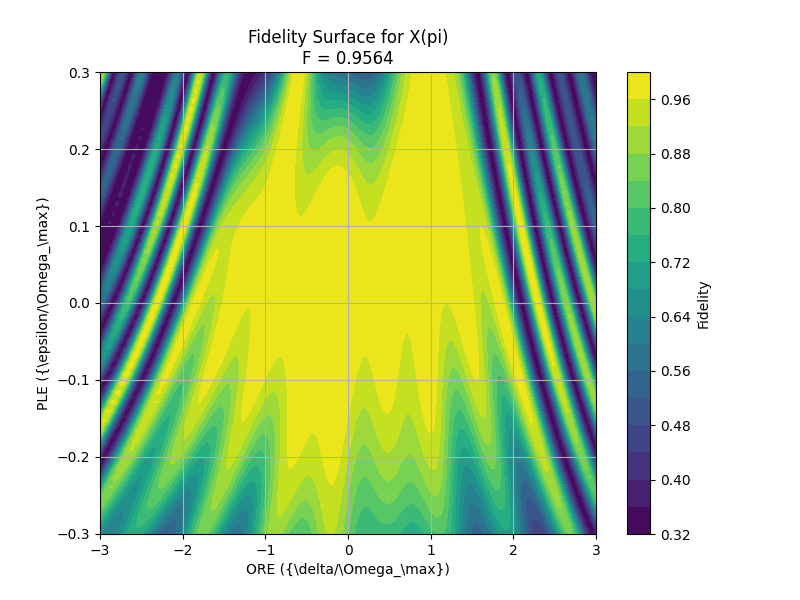
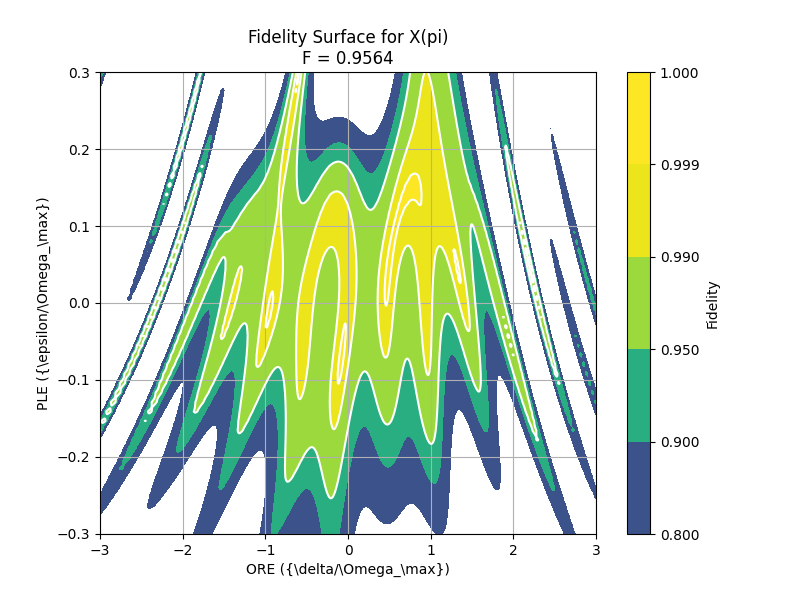
Figure contour line update

diff --git a/test.py b/test.py
@@ -1,6 +1,6 @@
-from model_decoder import CompositePulseTransformerDecoder
-from trainer import CompositePulseTrainer
-from run.single_qubit.single_qubit_script import *
+from model.model_encoder import CompositePulseTransformerEncoder
+from model.trainer import CompositePulseTrainer
+from train.single_qubit.single_qubit_script import *
 import torch
 
 _I2_CPU = torch.eye(2, dtype=torch.cfloat)
@@ -12,12 +12,12 @@ _SIGMA_Z_CPU = torch.tensor([[1.0, 0.0], [0.0, -1.0]], dtype=torch.cfloat)
 model_param = {
     "num_qubits": 1,
     "pulse_space": {
-        "Delta": (0, 5), "Omega": (0, 1), "phi": (-torch.pi, torch.pi), "tau": (0, 1.0)
+        "Delta": (-5, 5), "Omega": (0, 1), "phi": (-torch.pi, torch.pi), "tau": (0, 1.0)
     },
     "max_pulses": 10,
 }
 
-model = CompositePulseTransformerDecoder(**model_param)
+model = CompositePulseTransformerEncoder(**model_param)
 
 
 U_targets = torch.stack([
@@ -49,7 +49,7 @@ model_param = {
     "max_pulses": 10,
 }
 
-model = CompositePulseTransformerDecoder(**model_param)
+model = CompositePulseTransformerEncoder(**model_param)
 model.train()
 
 # Step 2: Create dummy input (batch of unitaries)

diff --git a/visualize/single_qubit_visualization.py b/visualize/single_qubit_visualization.py
@@ -81,7 +81,10 @@ if __name__ == "__main__":
         F_np = F_grid.numpy()
 
         plt.figure(figsize=(8, 6))
-        contour = plt.contourf(ORE_np, PLE_np, F_np, levels=20, cmap='viridis')
+        # contour = plt.contourf(ORE_np, PLE_np, F_np, levels=20, cmap='viridis')
+        contour = plt.contourf(ORE_np, PLE_np, F_np, levels=[0.8, 0.9, 0.95, 0.99, 0.999, 1.0], cmap='viridis')
+        plt.contour(ORE_np, PLE_np, F_np, levels=[0.95, 0.99, 0.999], colors='white', linewidths=1.5)
+
         plt.colorbar(contour, label='Fidelity')
         plt.xlabel(r"ORE ({\delta/\Omega_\max})")
         plt.ylabel(r"PLE ({\epsilon/\Omega_\max})")
